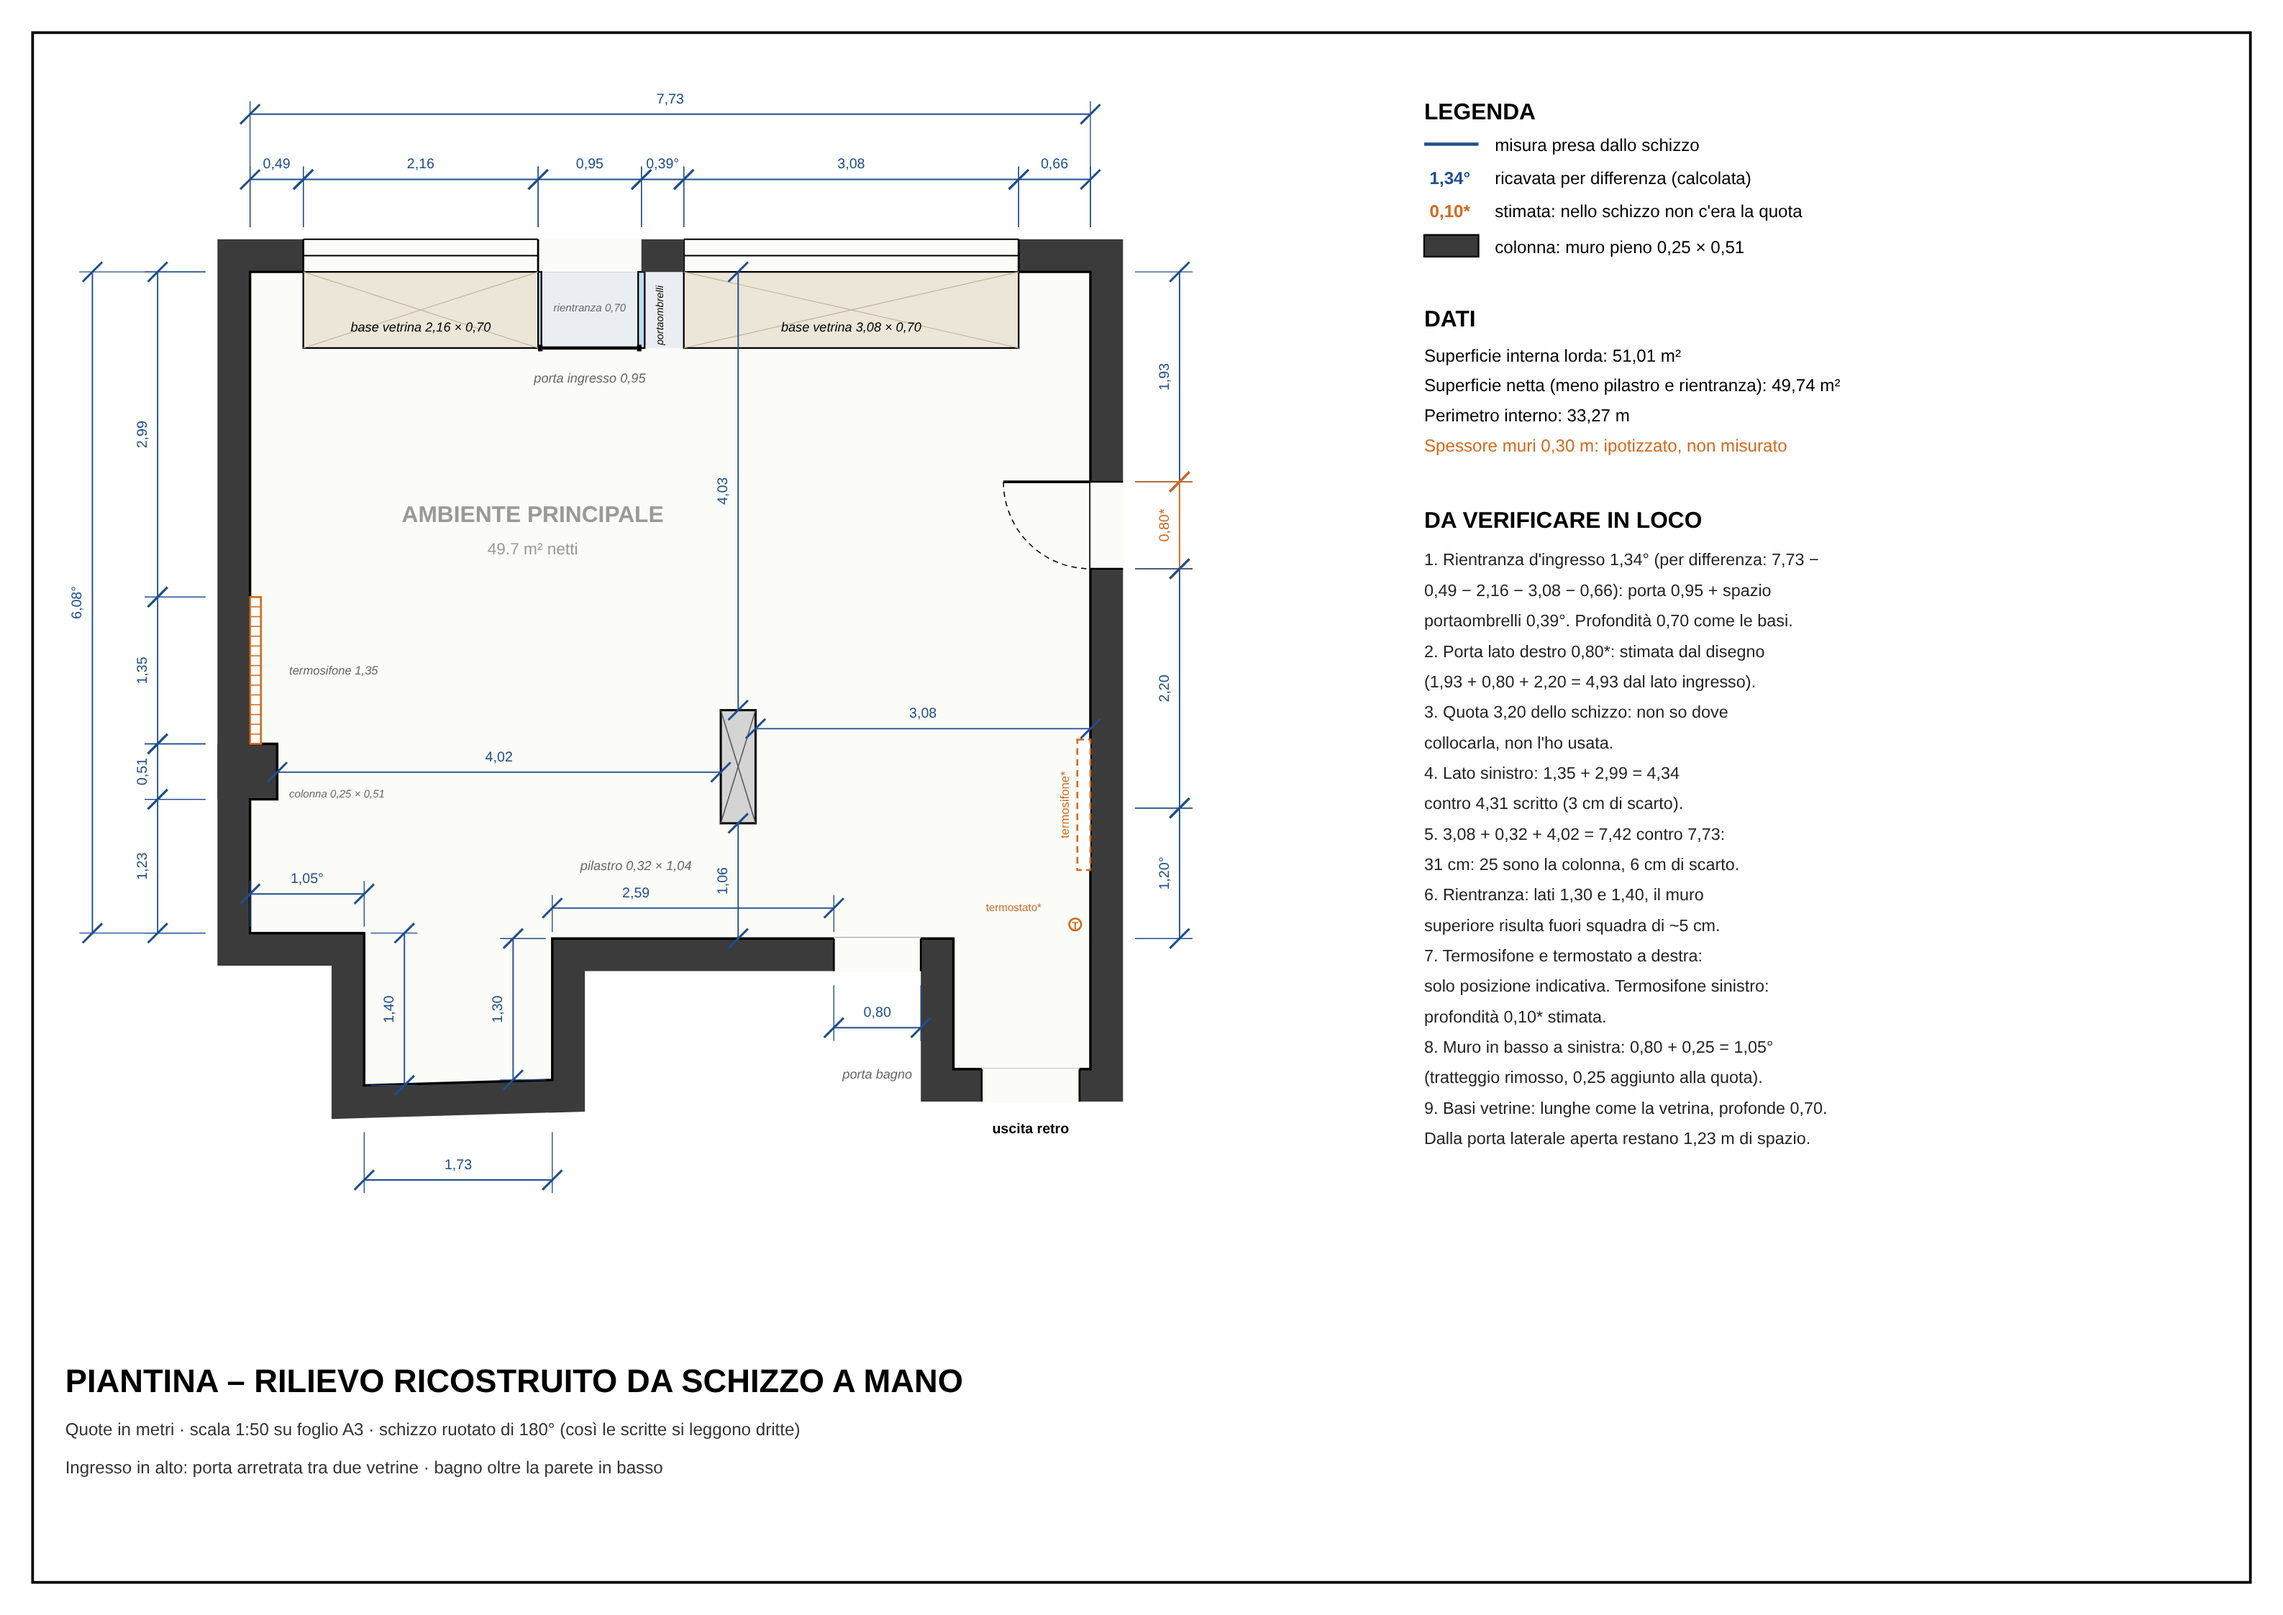
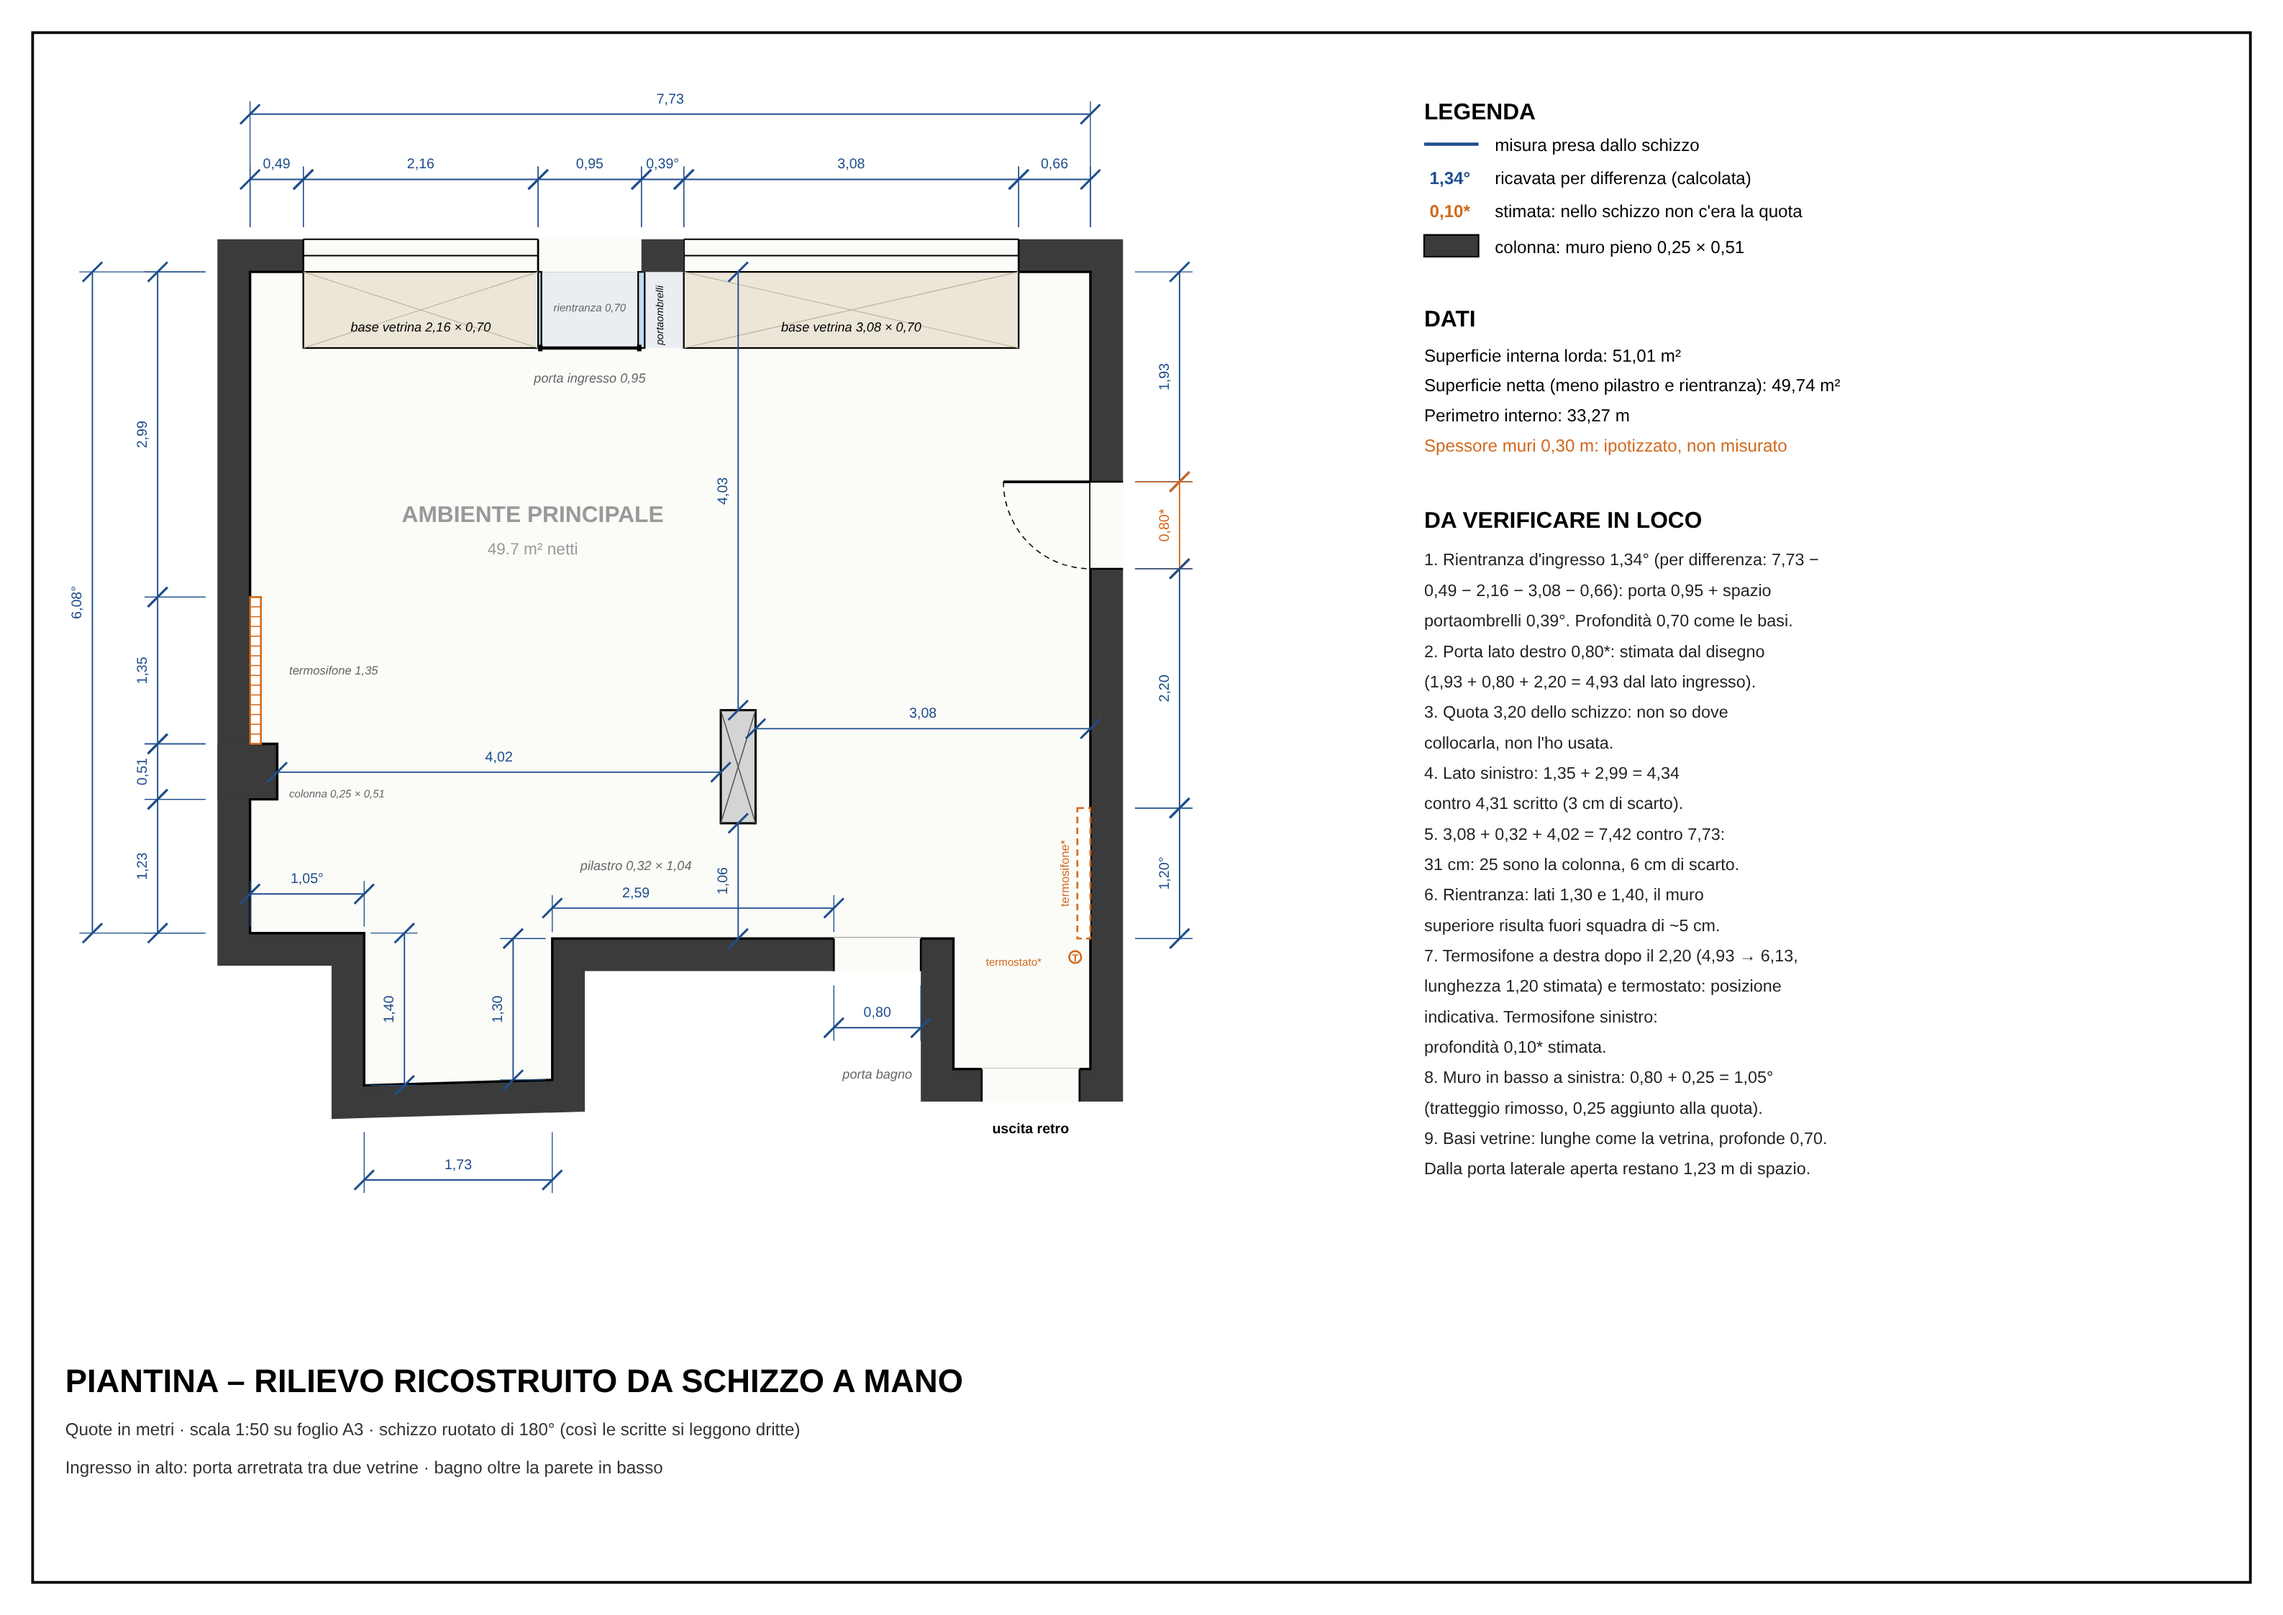
Sposta il termosifone di destra dopo la quota 2,20
Claude-Session: https://claude.ai/code/session_012mEpG2XJd9CwTCZtepJEcC

Changed region(s): [[0.6238, 0.5922, 0.7798, 0.748]]

diff --git a/piantina/genera_piantina.py b/piantina/genera_piantina.py
@@ -176,12 +176,12 @@ for i in range(1, 15):
     yy = 2.99 + i * 1.35 / 15
     line(0.0, yy, 0.10, yy, ORANGE, 0.2)
 # termosifone lato destro (stima di posizione)
-rect(W - 0.12, 4.30, W, 5.50, fill="#fff", stroke=ORANGE, w=0.35, dash="1.2 0.8")
-text(W - 0.20, 4.90, "termosifone*", 2.2, ORANGE, anchor="middle", rot=-90)
+rect(W - 0.12, 4.93, W, 6.13, fill="#fff", stroke=ORANGE, w=0.35, dash="1.2 0.8")
+text(W - 0.20, 5.53, "termosifone*", 2.2, ORANGE, anchor="middle", rot=-90)
 # termostato (stima)
-add(f'<circle cx="{f(X(W-0.14))}" cy="{f(Y(6.00))}" r="1.1" fill="#fff" stroke="{ORANGE}" stroke-width="0.35"/>')
-ptext(X(W - 0.14), Y(6.00) + 0.8, "T", 1.9, ORANGE, "middle", "bold")
-text(W - 0.45, 5.88, "termostato*", 2.0, ORANGE, anchor="end")
+add(f'<circle cx="{f(X(W-0.14))}" cy="{f(Y(6.30))}" r="1.1" fill="#fff" stroke="{ORANGE}" stroke-width="0.35"/>')
+ptext(X(W - 0.14), Y(6.30) + 0.8, "T", 1.9, ORANGE, "middle", "bold")
+text(W - 0.45, 6.38, "termostato*", 2.0, ORANGE, anchor="end")
 
 # ---- etichette ambienti/aperture
 text(1.57, 0.55, "base vetrina 2,16 × 0,70", 2.4, "#000", style="italic")
@@ -273,8 +273,9 @@ notes = [
     "    31 cm: 25 sono la colonna, 6 cm di scarto.",
     "6. Rientranza: lati 1,30 e 1,40, il muro",
     "    superiore risulta fuori squadra di ~5 cm.",
-    "7. Termosifone e termostato a destra:",
-    "    solo posizione indicativa. Termosifone sinistro:",
+    "7. Termosifone a destra dopo il 2,20 (4,93 → 6,13,",
+    "    lunghezza 1,20 stimata) e termostato: posizione",
+    "    indicativa. Termosifone sinistro:",
     "    profondità 0,10* stimata.",
     "8. Muro in basso a sinistra: 0,80 + 0,25 = 1,05°",
     "    (tratteggio rimosso, 0,25 aggiunto alla quota).",
